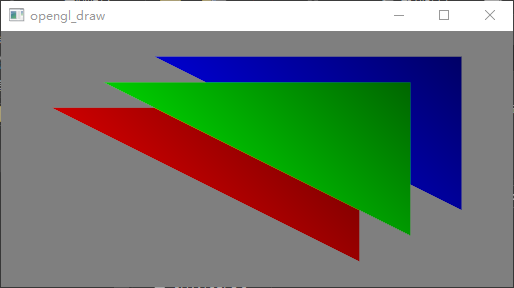
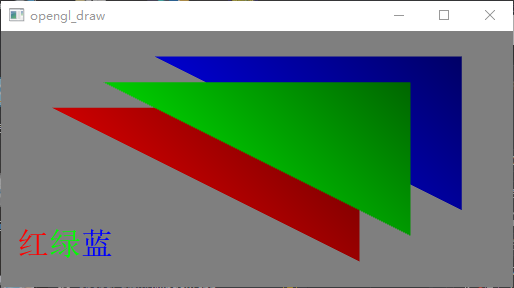
+draw text with opengl

diff --git a/opengl_draw/Window.cpp b/opengl_draw/Window.cpp
@@ -81,6 +81,9 @@ void main(void){
         }
     };
 
+    Window::Window() {
+    }
+
     void Window::initializeGL() {
         if (thisOpenGLData.use_count() > 0) {
             return;
@@ -102,6 +105,27 @@ void main(void){
         connect(varContex, &QOpenGLContext::aboutToBeDestroyed,
             varContex, [varOpenGLData]() {varOpenGLData->destruct(); },
             Qt::DirectConnection);
+    }
+
+    void Window::paintOverGL() {
+        QPainter varPainter{ this };
+        constexpr const auto varStep = 32;
+        auto varY = std::max<int>(height() - varStep, varStep);
+        int varX = varStep / 2;
+        {
+            auto varFont = varPainter.font();
+            varFont.setPixelSize(varStep);
+            varPainter.setFont(varFont);
+        }
+        varPainter.setBrush(QBrush(QColor(255, 0, 0)));
+        varPainter.setPen(QPen(QColor(255, 0, 0), 3));
+        varPainter.drawText(QPoint{ varX,varY }, trUtf8(u8R"(红)"));
+        varPainter.setBrush(QBrush(QColor(0, 255, 0)));
+        varPainter.setPen(QPen(QColor(0, 255, 0), 3));
+        varPainter.drawText(QPoint{ varX += varStep,varY }, trUtf8(u8R"(绿)"));
+        varPainter.setBrush(QBrush(QColor(0, 0, 255)));
+        varPainter.setPen(QPen(QColor(0, 0, 255), 3));
+        varPainter.drawText(QPoint{ varX += varStep,varY }, trUtf8(u8R"(蓝)"));
     }
 
     void Window::paintGL() try {

diff --git a/opengl_draw/Window.hpp b/opengl_draw/Window.hpp
@@ -8,10 +8,12 @@ namespace sstd{
     private:
         using Super = QOpenGLWindow;
     protected:
-
         virtual void initializeGL() override;
         virtual void paintGL() override;
         virtual void resizeGL(int w, int h) override;
+        virtual void paintOverGL() override;
+    public:
+        Window();
     private:
         std::weak_ptr< WindowOpenGLData > thisOpenGLData;
     };
